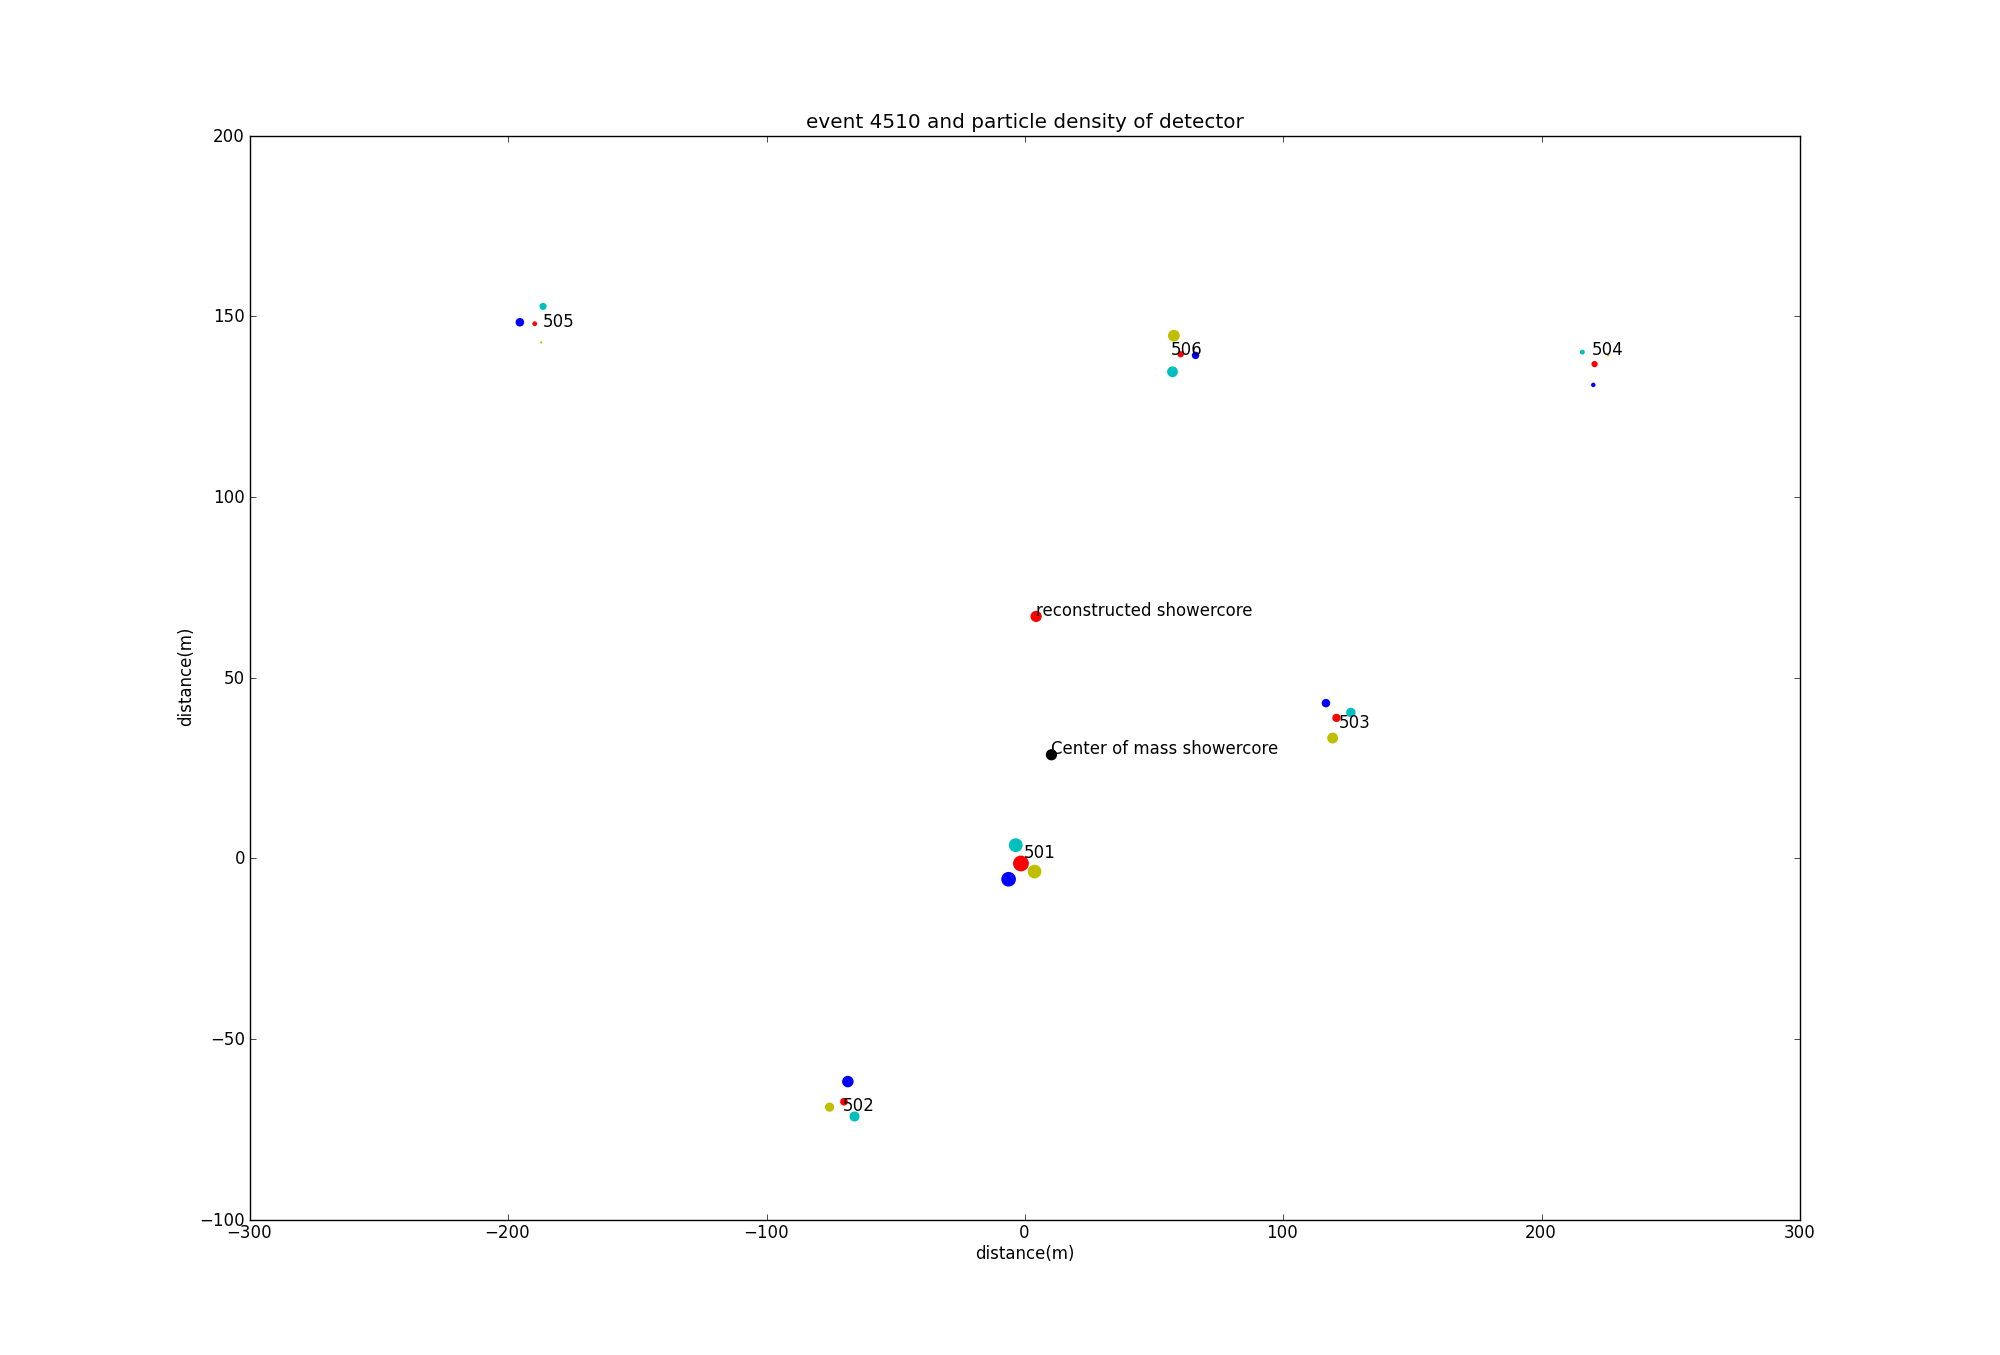
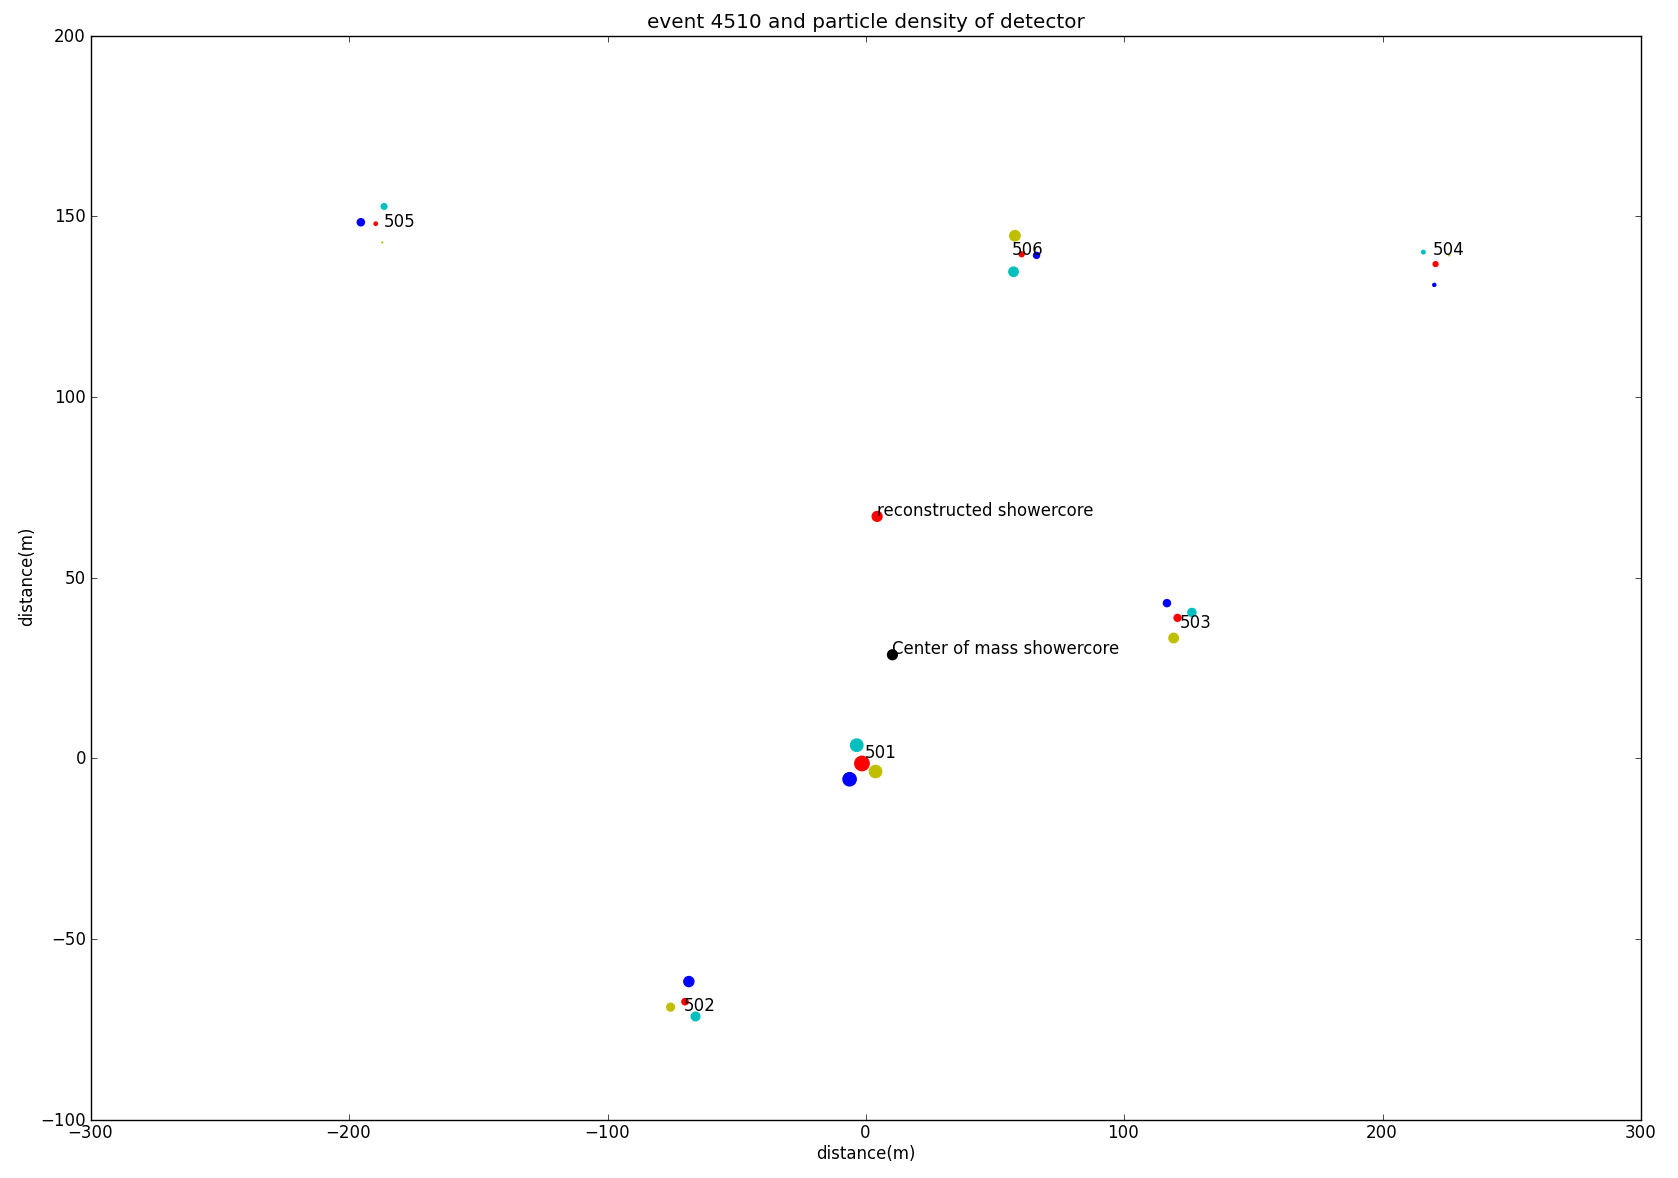
Fix SIlist separator when having only a pair of values
Fix usage of siunitx in uitleg_hisparc.
Crop whitespace around particle density plot.
Improve width of figures.

diff --git a/uitleg_hisparc/uitleg_hisparc.tex b/uitleg_hisparc/uitleg_hisparc.tex
@@ -1,9 +1,9 @@
 \input{../style}
 
-\title{Uitleg HiSPARC} 
+\title{Uitleg HiSPARC}
 \author{C.G. van Veen}
 \docalgemeen{3}{HT}
-\version{1.1}
+\version{1.2}
 
 \begin{document}
 
@@ -12,8 +12,8 @@
 \section{Inleiding}
 
 De aarde wordt continu gebombardeerd door kosmische straling.
-\footnote{Bij dit blad is ook een powerpoint beschikbaar, te vinden op: 
-docs.hisparc.nl/ bij teaching material.}  
+\footnote{Bij dit blad is ook een powerpoint beschikbaar, te vinden op:
+docs.hisparc.nl/ bij teaching material.}
 Dat zijn deeltjes die uit het heelal vandaan komen zoals protonen, ijzerkernen en
 koolstofkernen etc. Deze primaire deeltjes hebben energieën variërend
 van \SIrange{e2}{e20}{\electronvolt}. De deeltjes met lagere
@@ -38,18 +38,18 @@ kosmische straling en EAS, door onder andere de volgende
 onderzoeksgroepen: KASCADE, AUGER. In Nederland is dit op scholen
 mogelijk met HiSPARC.
 
-\begin{figure} 
+\begin{figure}
     \centering
-    \includegraphics[scale=0.8]{main_cosmicray_shower} 
+    \includegraphics[width=\textwidth]{main_cosmicray_shower}
     \caption{visualisatie van kosmische straling
-             (bron: S. Swordy, Universiteit van Chicago).} 
-    \label{fig:main_cosmicray_shower} 
+             (bron: S. Swordy, Universiteit van Chicago).}
+    \label{fig:main_cosmicray_shower}
 \end{figure}
 
 \section{\hisparc}
 
 Het Nederlandse project \hisparc is een samenwerking van middelbare scholen en universiteiten.
-Op deze scholen en universiteiten zijn detectie stations geplaatst waarmee we EAS kunnen 
+Op deze scholen en universiteiten zijn detectie stations geplaatst waarmee we EAS kunnen
 meten en analyseren. Leraren en leerlingen installeren, beheren en onderhouden de stations,
 en houden de kwaliteit van de ermee verkregen meetgegevens in de gaten.
 Zo worden EAS in een groot oppervlak gemeten en worden middelbare
@@ -91,11 +91,11 @@ zijn.
 
 \begin{figure}
     \centering
-    \includegraphics[scale=0.8]{swordy_blois}
+    \includegraphics[width=\textwidth]{swordy_blois}
     \caption{Flux als functie van de energie van kosmische straling. Tussen
-    \SI{1e11} en \SI{1e15}\electronvolt meten we bijna geen flux omdat
-    showers die ontstaan door deeltjes met deze energieën de grond niet bereiken. 
-    (bron: S. Swordy, Universiteit van Chicago)}
+             \SIlist{1e11;1e15}{\electronvolt} meten we bijna geen flux omdat
+             showers die ontstaan door deeltjes met deze energieën de grond
+             niet bereiken. (bron: S. Swordy, Universiteit van Chicago)}
     \label{fig:swordy_blois}
 \end{figure}
 
@@ -116,8 +116,8 @@ Een station bestaat uit twee of vier detectoren, die ieder
 een eigen signaal bij een detectie van een EAS geven; de pulshoogte. Is
 het signaal hoog genoeg en meten twee of meer detectoren binnen een kort
 tijdspanne een signaal, dan slaat het meetstation dit signaal als een
-event op in de database. Het registreren van een signaal in een detector wordt 
-uitgebreid uitgelegd in het document "Inregelen PMT's". 
+event op in de database. Het registreren van een signaal in een detector wordt
+uitgebreid uitgelegd in het document "Inregelen PMT's".
 Web-adres: \url{http://www.hisparc.nl/docent-student/lesmateriaal/informatie-pakket/}.
 Per uur worden typisch zo’n 2000 tot 3000
 events geregistreerd per station. Als meerdere detectoren of stations
@@ -127,10 +127,10 @@ moment bij één EAS.
 
 \begin{figure}
     \centering
-    \includegraphics[scale=0.5]{shower}
-    \caption{Als een primair deeltje op de atmosfeer komt, kan er een botsing plaatsvinden
-    met een atoom, door die botsing ontstaan er andere elementaire deeltjes en fotonen.
-    copyright: Konrad Bernlöher}
+    \includegraphics[width=0.8\textwidth]{shower}
+    \caption{Als een primair deeltje op de atmosfeer komt, kan er een botsing
+             plaatsvinden met een atoom, door die botsing ontstaan er andere
+             elementaire deeltjes en fotonen. copyright: Konrad Bernlöher}
     \label{fig:shower}
 \end{figure}
 
@@ -144,32 +144,30 @@ data retrieval tool werkt en hoe je er snelle analyses mee kunt doen en
 correlaties tussen verschillende grootheden kunt zoeken wordt uitgelegd
 in het infopakket van \hisparc, in het bestand `Data-retrieval' op het
 webadres van infopakket:
-\url{http://www.hisparc.nl/docent-student/lesmateriaal/informatie-pakket
-/}
+\url{http://www.hisparc.nl/docent-student/lesmateriaal/informatie-pakket/}
 
-Als er data wordt gedownload via de data retrieval zie je dat er een aantal 
-gegevens worden gemeten met de stations \figref{fig:data_retrieval}. Voor de 
-reconstructie van de richting waaruit de kosmische shower komt en de energie 
+Als er data wordt gedownload via de data retrieval zie je dat er een aantal
+gegevens worden gemeten met de stations \figref{fig:data_retrieval}. Voor de
+reconstructie van de richting waaruit de kosmische shower komt en de energie
 van het deeltje zijn een aantal kolommen van belang, zoals de Arrival time,
-Pulseheight, Pulseintegral en Number of MIP's \footnote{Meer over de terminologie 
+Pulseheight, Pulseintegral en Number of MIP's \footnote{Meer over de terminologie
 van kosmische showers vind je in het bestand `Terminologie' van het infopakket}.
 
-De deeltjes, die geproduceerd worden in een kosmische shower, invallen op de 
-detectoren kan uit de gemeten puls informatie worden gehaald, die leidt tot de 
+De deeltjes, die geproduceerd worden in een kosmische shower, invallen op de
+detectoren kan uit de gemeten puls informatie worden gehaald, die leidt tot de
 kolommen: Arrival time, Pulseheight, Pulseintegral, Number of MIP's.
 Met de informatie in deze kolommen wordt de richting en energie van de kosmische
-showers zo nauwkeurig mogelijk gereconstrueerd. In \figref{fig:traces} zie je 
-dat elk meetstation per gemeten event per detector een signaal geeft, maar 
-dat ze niet even hoog zijn, m.a.w. een lagere pulshoogte betekent dat er 
-minder deeltjes geregistreerd 
+showers zo nauwkeurig mogelijk gereconstrueerd. In \figref{fig:traces} zie je
+dat elk meetstation per gemeten event per detector een signaal geeft, maar
+dat ze niet even hoog zijn, m.a.w. een lagere pulshoogte betekent dat er
+minder deeltjes geregistreerd
 zijn.
- 
 
 \begin{figure}
     \centering
-    \includegraphics[width=0.95\textwidth]{data_retrieval}
-    \caption{Als met de (online) data-retrieval tool, data wordt gedownload dan zijn 
-    er een aantal belangrijke kolommen voor reconstructie te zien, zoals Arrival time, 
+    \includegraphics[width=\textwidth]{data_retrieval}
+    \caption{Als met de (online) data-retrieval tool, data wordt gedownload dan zijn
+    er een aantal belangrijke kolommen voor reconstructie te zien, zoals Arrival time,
     Pulseheight, Pulseintegral en Number of MIP's.}
     \label{fig:data_retrieval}
 \end{figure}
@@ -179,7 +177,7 @@ zijn.
 Je ziet in \figref{fig:Arrivaltime_pulse}, dat de detectoren op
 verschillende tijdstippen hun puls beginnen. De zwarte grafiek in
 \figref{fig:Arrivaltime_pulse} heeft de laatste Arrival time. De Arrival
-time wordt bepaald zoals in \figref{fig:Arrivaltime_pulse} wordt getoond. 
+time wordt bepaald zoals in \figref{fig:Arrivaltime_pulse} wordt getoond.
 De flank van de pulse moet over een bepaalde drempelwaarde heen gaan,
 dan wordt die tijd waarop dat gebeurd opgeslagen als Arrival time voor
 die puls. Nu we voor één event de Arrival times hebben bepaald kunnen we
@@ -203,7 +201,7 @@ materiaal op de website: \url{http://www.hisparc.nl/docent-student/lesmateriaal/
 
 \begin{figure}
     \centering
-    \includegraphics[width=0.95\textwidth]{Arrivaltime_pulse}
+    \includegraphics[width=\textwidth]{Arrivaltime_pulse}
     \caption{Als de flank van de pulse over een bepaalde ingestelde
     drempelwaarde gaat, dan wordt dat tijdstip voor die pulse als Arrival
     time opgeslagen. Voor de cyaan kleurige puls komen we zo op een Arrival
@@ -217,7 +215,7 @@ materiaal op de website: \url{http://www.hisparc.nl/docent-student/lesmateriaal/
 \subsection{Reconstructie van energie }
 
 In \figref{fig:pulshoogte} zie je de pulsen van twee detectoren (dit is
-dus een twee detector station of een vier detector station, waarbij twee 
+dus een twee detector station of een vier detector station, waarbij twee
 detectoren `getriggerd' zijn). De maximale waarde van de pulsen is daar
 aangegeven met een verticale lijn. De waarde van de potentiaal die bij
 dit punt hoort, wordt de `pulseheight' of in het Nederlands `pulshoogte'
@@ -240,26 +238,26 @@ data per detector elke keer opnieuw bepaalt en gebruikt als ijkmiddel om
 het aantal deeltjes te berekenen wat in één event is gedetecteerd. De waarde
 van de MIP varieert per detector en per meetperiode, omdat de MIP waarde
 afhankelijk is van temperatuur, spanning over de fotobuis, dikte van de
-scintillator, montage van de detector en leeftijd van de detector. 
+scintillator, montage van de detector en leeftijd van de detector.
 
 \begin{figure}
     \centering
-    \includegraphics[scale=0.8]{pulshoogte}
+    \includegraphics[width=\textwidth]{pulshoogte}
     \caption{Pulseheights van twee detectoren aangegeven.}
     \label{fig:pulshoogte}
-\end{figure} 
+\end{figure}
 
 \begin{figure}
     \centering
-    \includegraphics[scale=0.8]{MIP_histogram}
-    \caption{Een pulshoogte histogram, in dit diagram zijn de pulseheights van veel 
+    \includegraphics[width=\textwidth]{MIP_histogram}
+    \caption{Een pulshoogte histogram, in dit diagram zijn de pulseheights van veel
     gemeten events door één detector uitgezet. De piek is de pulshoogte,
     die hoort bij de detectie van één deeltje. Dit is de MIP piek. In dit geval is
-    de MIP +/- 180 mV. De MIP piek wordt gebruikt om de deeltjes
+    de MIP \SI{\pm180}{\milli\volt}. De MIP piek wordt gebruikt om de deeltjes
     dichtheid in de detector voor alle geregistreerde events uit te
     rekenen.}
     \label{fig:MIP_histogram}
-\end{figure} 
+\end{figure}
 
 Nu we met behulp van de MIP\footnote{Meer over de MIP piek vind je in
 het bestand `inregelen PMT's' van het \hisparc infopakket} piek van elke
@@ -283,7 +281,7 @@ lastig en vereist een gedegen kennis van de wiskundige ontwikkeling van
 de showers, maar als de parameter s is 1,  dan is het aantal deeltjes in
 de deeltjeslawine maximaal.}.
 Als je meer informatie wilt over de ontwikkeling van een shower, kun je
-dat lezen in het bestand `cosmic air showers' in het \hisparc infopakket 
+dat lezen in het bestand `cosmic air showers' in het \hisparc infopakket
 (lees dan over het Heitler-model).
 
 
@@ -298,10 +296,10 @@ de deeltjes lawine bepalen uit minimaal drie metingen van de
 deeltjesdichtheid. Het aantal deeltjes in de lawine is daarmee ook te
 bepalen, en dit is een maat voor de energie van het primaire deeltjes.
 
- 
+
 \begin{figure}
     \centering
-    \includegraphics[scale=0.3]{particle_density}
+    \includegraphics[width=\textwidth]{particle_density}
     \caption{Een geregistreerd event. De nummers van de stations van
     het Sciencepark cluster zijn aangegeven. Van elk station is de
     deeltjesdichtheid van de detectoren weergegeven door de grootte van de
@@ -313,7 +311,7 @@ bepalen, en dit is een maat voor de energie van het primaire deeltjes.
     tot de stations. In dit figuur is ook een gereconstrueerde
     showercore te zien.}
     \label{fig:particle_density}
-\end{figure} 
+\end{figure}
 
 \begin{equation}
 \rho(r) = N_e \cdot \hat{c}(s) \cdot \left(\frac{r}{r_0}\right)^{s-\alpha} \cdot \left(1 + \frac{r}{r_0}\right)^{s-\beta}
@@ -333,10 +331,10 @@ met
     \centering
     \includegraphics[scale=0.8]{LDF_fit}
     \caption{Een event is gefit aan de LDF \eqref{eq:LDF}. De lijnen geven
-    LDF’s van respectievelijk showergrootten van \SIrange{e4}{e7} aan. Het
+    LDF’s van respectievelijk showergrootten van \numrange{e4}{e7} aan. Het
     gereconstrueerde event (stippellijn) van 6 stations (gemiddelde deeltjesdichtheid
-    per station) heeft een showersize tussen \SI{e6} en \SI{e7} deeltjes.}
+    per station) heeft een showersize tussen \num{e6} en \num{e7} deeltjes.}
     \label{fig:LDF_fit}
-\end{figure} 
+\end{figure}
 
 \end{document}

diff --git a/common_style.tex b/common_style.tex
@@ -7,7 +7,7 @@
 \usepackage[detect-all, binary-units, separate-uncertainty=true,
             per-mode=symbol, retain-explicit-plus, retain-unity-mantissa=false,
             range-phrase={ tot }, list-final-separator={ en },
-            output-decimal-marker={,}]{siunitx}
+            list-pair-separator={ en }, output-decimal-marker={,}]{siunitx}
 
 \usepackage{setspace}
 \setstretch{1.2}
